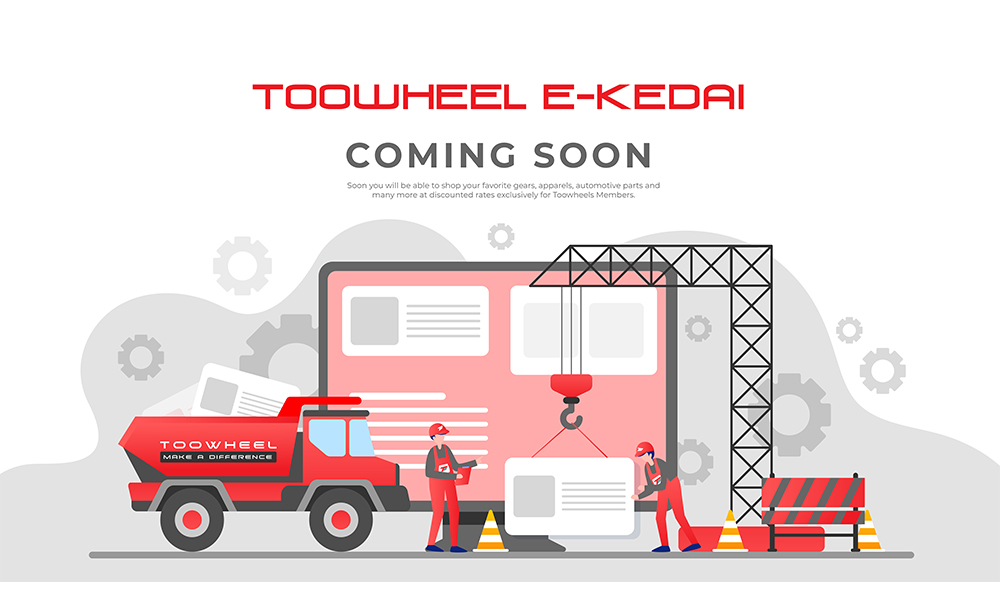
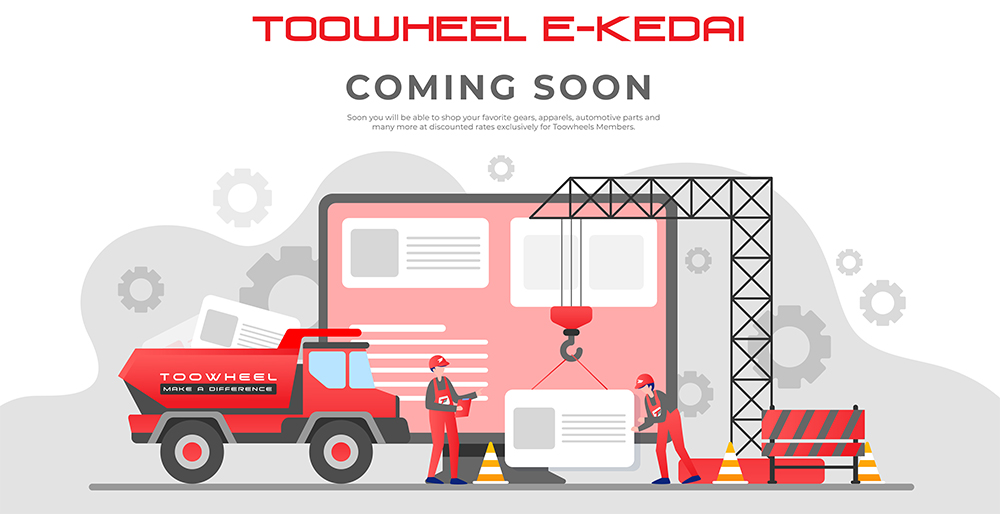
function picture-sports

diff --git a/toowheel/css/common.css b/toowheel/css/common.css
@@ -3653,3 +3653,15 @@ thead td {
         flex-basis: 100%;
     }
 }
+.ekedai i{
+    font-size: 30px;
+    /* width: 50%; */
+    position: absolute;
+    left: 90px;
+    top: 30px;
+    color: #ed1a26;
+    cursor: pointer;
+}
+.ekedai i:hover{
+   color: #585858;
+}

diff --git a/toowheel/shop-now.php b/toowheel/shop-now.php
@@ -3,12 +3,15 @@
 <html>
     <?php include 'head.php'; ?>
     <body>
-
-        <div class="padding-top-108"></div>
-        <section class="login-pad">
+        <section class="ekedai">
+            <div>
+                <i  onclick="window.history.back();" class="fa fa-arrow-left" aria-hidden="true"></i>
+                <img src="img/e-kedai.jpg" alt="" class="img-responsive"/>
+            </div>
 
         </section>
-        <
+
+
         <script src="js/jquery-3.3.1.min.js" type="text/javascript"></script>
         <script src="js/bootstrap.js" type="text/javascript"></script>
         <script src="js/slick-slider.js" type="text/javascript"></script>
@@ -18,5 +21,5 @@
         <script src="js/script.js" type="text/javascript"></script>
         <script type="text/javascript">
 
-</body>
-</html>
+        </body>
+        </html>

diff --git a/index.php b/index.php
@@ -90,7 +90,7 @@ $configs = $obj->getLandingDetails();
                     </div>
                     <div class="col-md-3">
                         <a href="#"><img src="<?php echo BASE_URL . $configs['landing_shop_now_image']; ?>" alt="" /></a>
-                        <a href="#" class="cross-btn"><span>SHOP NOW!</span></a>
+                        <a href="toowheel/shop-now.php" class="cross-btn"><span>SHOP NOW!</span></a>
                     </div>
                 </div>
             </div>
